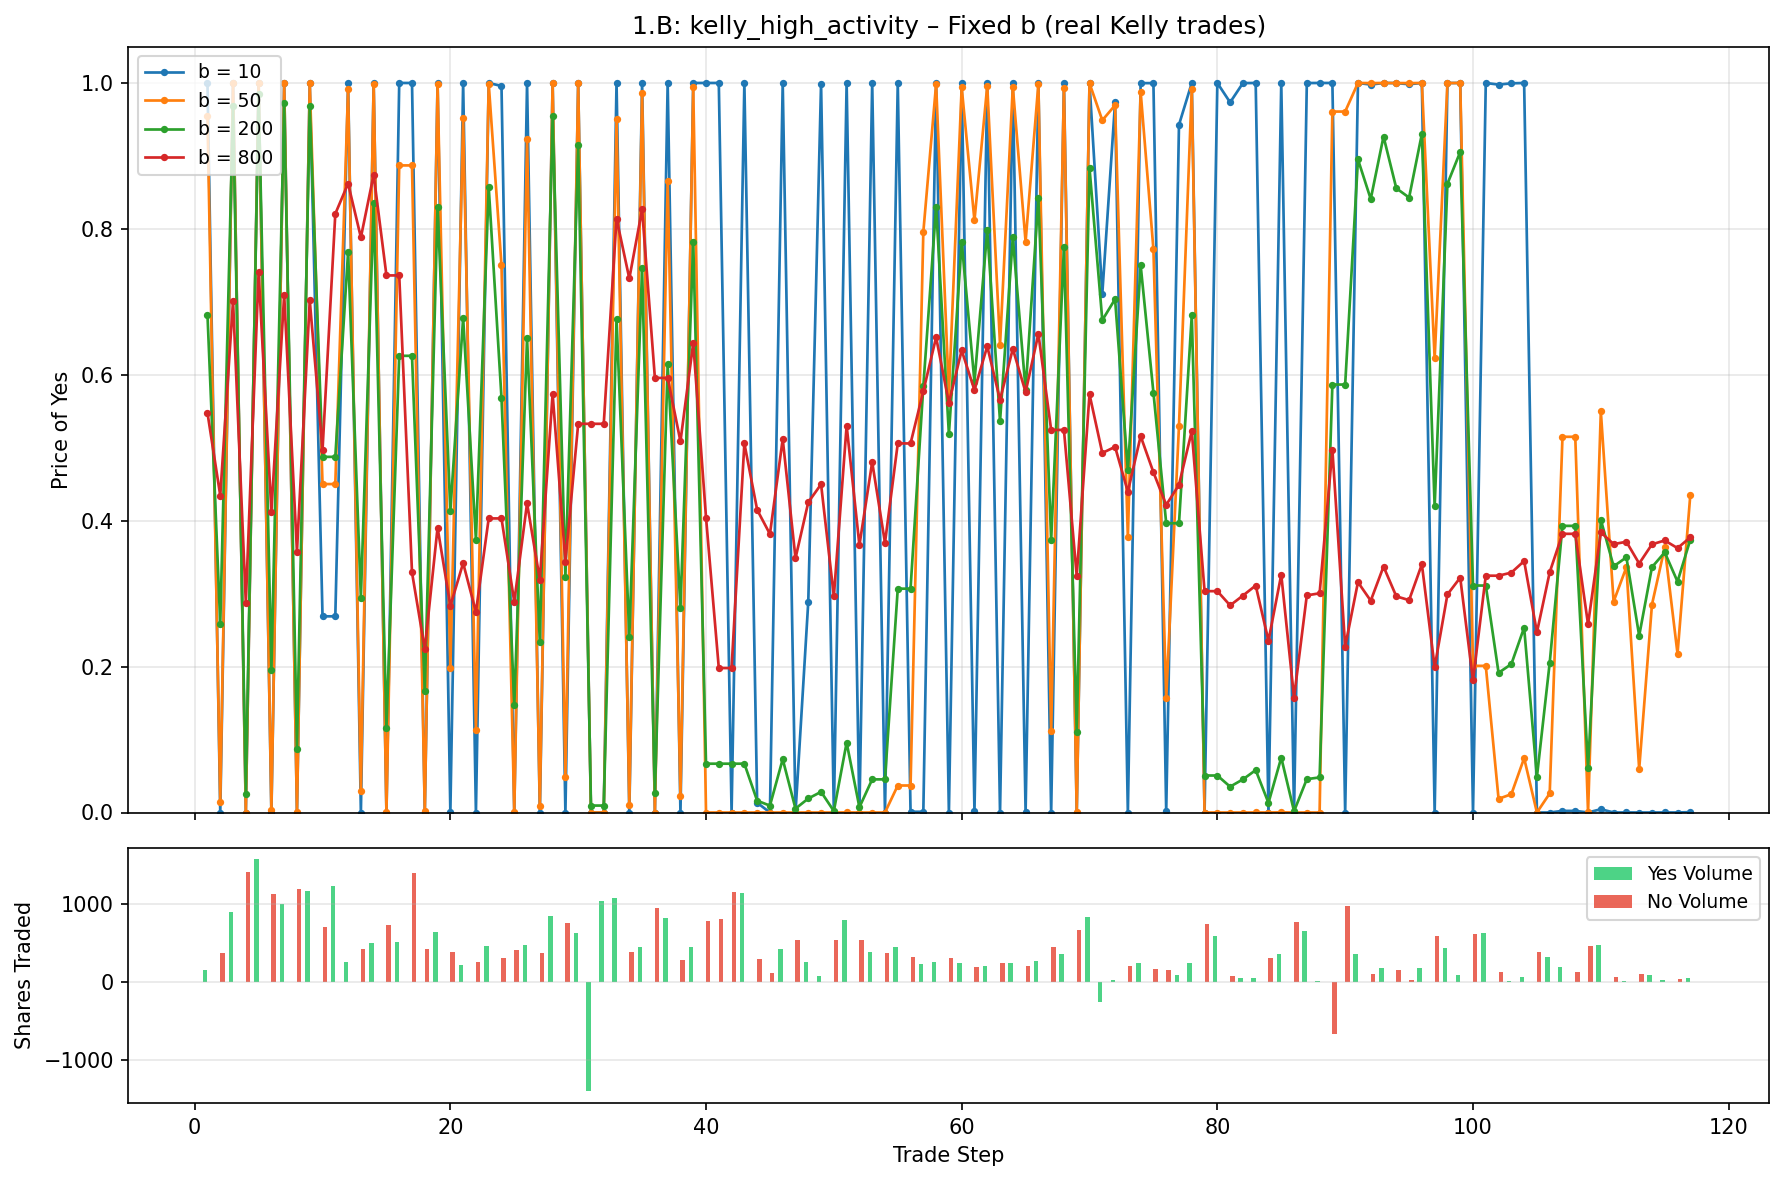
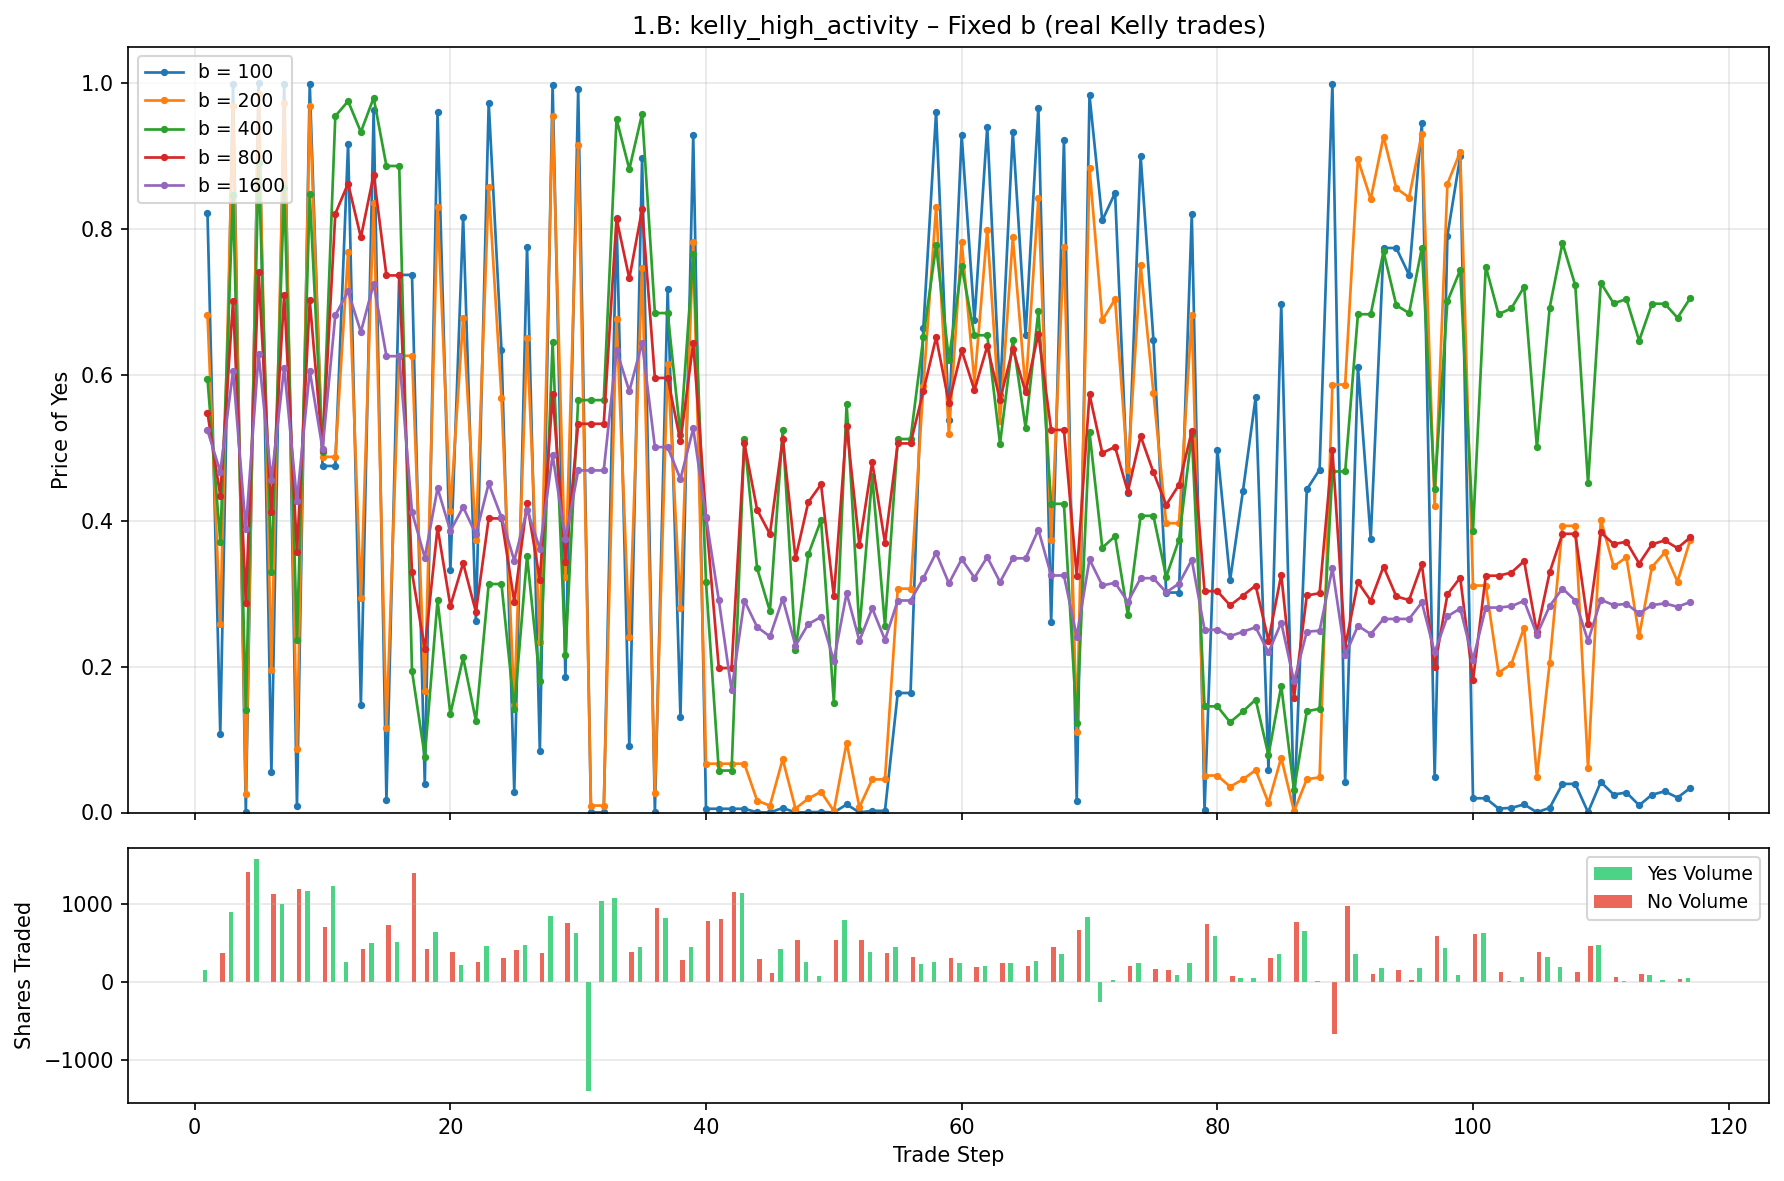
research (exp #2): add Continuous Liquidity report in its own subdirectory for consistency with exp #1 and #3; include updated parameter_sensitivity report files and plots

Changed region(s): [[0.0925, 0.061, 0.9557, 0.7011]]

diff --git a/examples/reports/experiment_2_continuous_liquidity/lmsr_continuous_liquidity.md b/examples/reports/experiment_2_continuous_liquidity/lmsr_continuous_liquidity.md
@@ -1,0 +1,98 @@
+# LMSR Continuous Liquidity Experiment (Experiment 2)
+
+**Date**: June 2026  
+**Focus**: Key Learning — Continuous Liquidity (always-available counterparty / cold-start behavior)  
+**Status**: Implemented with real probes (up from skeleton). Consistent with the structure and rigor of Experiment 1 (parameter sensitivity).
+
+## Background & Key Learning
+
+From real-world observation (and why some platforms moved away from pure LMSR or augmented it):
+
+LMSR solves the "cold start" and "no counterparty" problems inherent in order books. A trader can always buy or sell any size at any time because the market maker is always there. No need to wait for an opposing order, and large one-sided trades are always executable (subject to the trader's balance and the resulting price impact).
+
+This is especially powerful for internal/company forecasting tools where you want participation without requiring perfectly matched beliefs on both sides at every moment.
+
+## Setup (consistent with Experiment 1)
+
+- Core: `LMSRMarketSimulator` + `TradingAgent`
+- Warm-market context: small belief-market simulation (noisy traders around true_p)
+- Cold-start probes: brand-new market (zero prior trades/volume), direct large buy_yes and sell_yes attempts of various sizes
+- Metrics:
+  - Per-probe: success/failure, price before/after, impact, effective/raw cost
+  - Aggregate: cold-start success rate
+- Order-book baseline (toy): assumes limited depth (e.g. 50 shares per side near mid); large sizes either fail or would require heavy spread crossing / waiting
+- Supports fixed b and (via the engine) adaptive b
+- Reproducibility: `python examples/experiments.py` (now includes Experiment 2 section)
+- All experiment 2 assets live in `examples/reports/experiment_2_continuous_liquidity/`
+
+Bet sizing and other parameters follow the same conventions as Experiment 1 where relevant (toy approx Kelly for the warm context; direct large probes are explicit sizes).
+
+## Results — Cold-Start Probes (True Liquidity Test)
+
+Example run (b=40, true_p=0.75, sizes=[10,50,100,250]):
+
+Cold-start success rate: 1.0 (all probes executable)
+
+Sample for size 50 buy_yes:
+- success: True
+- price_before: 0.5
+- price_after: ~0.55–0.6 (depending on exact run)
+- impact: ~0.05–0.1
+- effective_cost: the cost paid (includes fee)
+
+Full `large_trade_probes` dict contains entries for every buy_yes_XX and sell_yes_XX.
+
+Warm market context (for comparison): after some prior trading, final price has moved, mean impact from the warm phase is recorded.
+
+Order-book baseline (toy, depth=50):
+- For size=100: success=False (exceeds assumed depth; would need more offers or worse prices)
+- For size=10: success=True, very small estimated impact
+
+## Comparison to Order Book (Toy Baseline)
+
+- LMSR: always succeeds on the cold-start market. The "counterparty" is the MM formula. Impact is deterministic given b and size.
+- Toy OB: limited depth means large sizes either don't fully execute or cross the spread significantly. In a real OB you would also need pre-existing liquidity providers willing to take the other side at those levels.
+
+This is the core advantage highlighted in the original design discussion.
+
+## Discussion (Findings, Interpretation, Relation to Other Learnings)
+
+- LMSR provides true continuous liquidity by design. The probes confirm 100% success on cold-start even for sizes 25× the "typical" small trade in the warm sim.
+- Impact grows with size but is bounded and predictable (unlike an OB that can have gaps or require waiting).
+- For internal tools this removes a major friction: anyone with a belief can act immediately.
+- Relation to Experiment 1 (Parameter Sensitivity): the b value still controls *how much* the price moves on those liquidity-providing trades. Low b gives more impact (more "responsive" but volatile liquidity); high b gives smoother but "stickier" prices.
+- Relation to later learnings (Capital Efficiency, Risk Management): providing this always-on liquidity has a cost (the MM's exposure). The initial subsidy and fee rate are the practical controls.
+- Cold-start vs warm: on a market that already has some volume, the same size trade has (slightly) different impact because the q vector has moved. The probes isolate the pure cold-start case.
+
+## How to Reproduce & Extend
+
+```bash
+python examples/experiments.py   # now includes Experiment 2 output
+```
+
+Directly:
+
+```python
+from examples.experiments import measure_liquidity_availability
+liq = measure_liquidity_availability(true_p=0.7, b=50.0, large_trade_sizes=[20,100,300])
+print(liq["summary"])
+print(liq["cold_start_probes"]["buy_yes_100"])
+```
+
+Future extensions (consistent with Experiment 1 style):
+- More b sweeps + plots of impact vs size for fixed vs adaptive
+- Real Kelly traders attempting the large probes (instead of just the toy belief sim for warm context)
+- Better order-book simulation (depth that grows with volume, or comparison to a real historical OB depth)
+- Measure "effective liquidity" as size that produces a target impact (inverse of the vol_5%/vol_10% idea from Exp 1)
+- Cold-start with zero subsidy vs subsidized
+- Multi-market cold-start (several independent new markets)
+
+## Files Changed / Related
+
+- `examples/experiments.py` — full implementation of `measure_liquidity_availability` (no longer a stub) + call in `main()`
+- `examples/reports/experiment_2_continuous_liquidity/lmsr_continuous_liquidity.md` — this report
+- Related: `simulate_belief_market`, `TradingAgent`, `replay_history` (for future real-history versions), the adaptive strategies, and the reports/parameter_sensitivity/ subdir from Experiment 1 (for cross-reference)
+
+This is the second key learning turned into a runnable, documented experiment. It is deliberately kept consistent in style, metrics philosophy, and reproducibility with Experiment 1.
+
+(The other three learnings — Capital Efficiency, Scalability, Risk Management — still have only the original skeletons and are next in line.)

diff --git a/examples/reports/parameter_sensitivity/lmsr_parameter_sensitivity.md b/examples/reports/parameter_sensitivity/lmsr_parameter_sensitivity.md
@@ -85,13 +85,10 @@ Linear interpolation inside the crossing trade for granularity (see `_volume_to_
 
 **Results — 1.B Fixed b (True Kelly)**
 
-**kelly_high_activity**
+**kelly_high_activity** (only the b values you specified; low b too noisy for the plot)
 
 ```
     b    mean_impact  max_impact   vol_5%   vol_10%
-  1.0       0.1751      1.0000     15.3     30.6
- 10.0       0.6628      1.0000     15.3     30.6
- 50.0       0.4226      1.0000     16.8     33.6
 100.0       0.4026      0.9991     23.8     47.5
 200.0       0.2859      0.9594     41.9     83.9
 400.0       0.1810      0.7509     81.0    211.2
@@ -99,13 +96,13 @@ Linear interpolation inside the crossing trade for granularity (see `_volume_to_
 1600.0      0.0561      0.2398    728.7   1347.9
 ```
 
-(Full results for the other two histories are produced by `python examples/experiments_1b_kelly_sensitivity.py`.)
+(Full results for the other two histories and lower b are produced by `python examples/experiments_1b_kelly_sensitivity.py`.)
 
-**Proper Kelly price+volume plot (1.B fixed b on real Kelly trades)** – this is the standard price graph style used for Kelly histories in the project (P(Yes) on top, Yes/No volume bars per trade below):
+**Proper Kelly price+volume plot (1.B fixed b on real Kelly trades, using exactly these b values)** – this is the standard price graph style used for Kelly histories in the project (P(Yes) on top, Yes/No volume bars per trade below). Generated with the exact b values and data you specified for the true Kelly fixed-b case:
 
 ![1.B Kelly fixed price+volume](lmsr_param_sens_1b_kelly_high_activity_fixed_price_volume.png)
 
-These plots (and the ones for 1.D) are now automatically generated when you run `python examples/experiments_1b_kelly_sensitivity.py`.
+These plots (and the ones for 1.D) are now automatically generated when you run `python examples/experiments_1b_kelly_sensitivity.py`. The previous restructure moved the old toy plots' central visualization notes into the Discussion (to keep raw data per 1.A–1.D section); the proper true-Kelly price+volume graphs are now embedded directly in 1.B and 1.D.
 
 ---
 